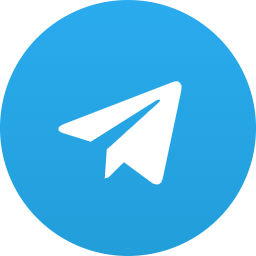
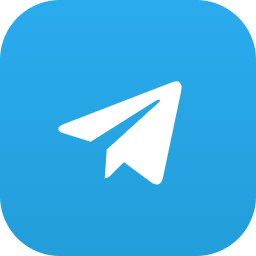
feat(vizitka): Figma dizayni bo'yicha to'liq qayta qurildi
Dizayn: "Business card Mylink" (Figma, 1062x590 px = 90x50 mm @300dpi).
Barcha o'lchamlar dizayndan piksel aniqligida olindi va _CARD_K orqali pt ga
o'giriladi; fon esa oldingidek biznes sahifasining temasidan olinadi — ya'ni
temaga qarab faqat fon almashadi.

- Karta o'lchami 85x55 -> 90x50 mm (dizayn o'lchami)
- Old tomon: markazda halqali dumaloq logo, ostida nom (12.7pt) va tavsif
- Orqa tomon: kichik logo + nom/tavsif chapda, sahifa linki QR ustida
  markazda, chapda 3 ta kontakt chipi, o'ngda oq QR kvadrat (262px, ichida
  modul zonasi 222px)
- Chiplar: dizayndagidek platforma rangli tashqi yorug'lik (_chip_glow),
  radius 23px, ikonka 45px; yozuvlar uchalasiga birdek sig'adigan o'lchamda
- Telegram ikonkasi dizayndagidek dumaloq emas, kvadrat qilib qayta chizildi

diff --git a/backend/businesses/qr.py b/backend/businesses/qr.py
@@ -393,20 +393,6 @@ _TEMPLATE_COLORS = {
 }
 
 
-def _chip_frame(c, x, y, w, h, light):
-    """Kontakt chipi ramkasi — QR paneli bilan bir xil qirra: tekis shaffof
-    to'ldirish va bitta nozik chegara (ichki soya/gradient yo'q). To'ldirish
-    juda kuchsiz — orqa fon bilinib turadi; chegara esa aniq ko'rinadi."""
-    tint = (0, 0, 0) if light else (1, 1, 1)
-    c.setFillColor(colors.Color(*tint, alpha=0.028 if light else 0.045))
-    c.setStrokeColor(colors.Color(*tint, alpha=0.30 if light else 0.38))
-    c.setLineWidth(0.6)
-    c.roundRect(x, y, w, h, 1.4 * mm, stroke=1, fill=1)
-    # Alfa holati keyingi rasm/matnga o'tib ketmasin.
-    c.setFillAlpha(1)
-    c.setStrokeAlpha(1)
-
-
 def _fmt_phone(phone):
     """+998901234567 -> '+998 90 123 45 67' (boshqa formatlar o'z holicha)."""
     p = phone.replace(' ', '')
@@ -439,102 +425,144 @@ def _chip_icon(kind):
     return os.path.join(_ASSETS_DIR, 'chips', f'{kind}.png')
 
 
-def card_pdf_bytes(business, url):
-    """Ikki tomonlama 85x55 mm vizitka; fon rangi biznes sahifasi temasidan.
+# Vizitka geometriyasi — Figma dizaynidan ("Business card Mylink", ikki yuz
+# 1062x590 px = 90x50 mm @300dpi). Barcha qiymatlar dizayn pikselida, _CARD_K
+# orqali pt ga o'giriladi; shu bois joylashuv dizayn bilan bir xil bo'ladi.
+_CARD_W, _CARD_H = 90 * mm, 50 * mm
+_CARD_K = _CARD_W / 1062.0
 
-    Old tomon: tema-gradient fonda chapda dumaloq logo, o'ngida nom va tavsif.
-    Orqa tomon: tepada kichik logo+nom+tavsif (chap) va sahifa linki (o'ng),
-    pastki chapda oq kontakt chiplari (telefon/Telegram/Instagram), o'ngda oq
-    QR paneli. Har bir matn o'lchanadi: nom kichrayadi, qolganlari '...' bilan
-    kesiladi."""
+_CARD_FRONT = {
+    'avatar': (531, 228, 88, 90),     # cx, cy, foto radiusi, halqa radiusi
+    'name': (402, 12.7),              # baseline, maksimal o'lcham
+    'desc': (453, 7.3),               # 1-qator baseline, o'lcham
+    'pad': 100,                       # chap/o'ng hoshiya
+}
+_CARD_BACK = {
+    'avatar': (137, 137, 35, 36.5),
+    'name': (204, 136, 7.7),          # x, baseline, o'lcham
+    'desc': (203, 160, 5.2),
+    'url': (831, 160, 5.2),           # markaz x, baseline, o'lcham
+    'chip': (100, 354, 74, 23),       # x, eni, balandligi, radius
+    'chip_tops': (228, 322, 415),
+    'chip_icon': (115, 45),           # x, o'lcham (kvadrat)
+    'chip_label': (180, 46, 7.35),    # x, chip tepasidan baseline, o'lcham
+    'qr': (700, 228, 262, 222),       # x, y, oq kvadrat, ichidagi modul zonasi
+}
+
+# Chip glow ranglari — dizayndagidek platforma ranglari.
+_CHIP_COLORS = {'phone': '#34c759', 'telegram': '#229ed9', 'instagram': '#d6249f'}
+
+
+def _avatar(c, business, cx, cy, r, ring_w, accent, light):
+    """Dumaloq logo (yo'q bo'lsa — bosh harf) va atrofida nozik halqa."""
+    logo = _logo_reader(business)
+    if logo is not None:
+        c.drawImage(logo, cx - r, cy - r, r * 2, r * 2, mask='auto')
+    else:
+        c.setFillColor(colors.HexColor(accent))
+        c.circle(cx, cy, r, stroke=0, fill=1)
+        c.setFillColor(colors.white)
+        c.setFont('Helvetica-Bold', r * 1.05)
+        c.drawCentredString(cx, cy - r * 0.36, (business.name or 'M').strip()[:1].upper())
+    c.setStrokeColor(colors.HexColor('#3f3f46') if light else colors.HexColor('#f6f6f6'))
+    c.setLineWidth(ring_w)
+    c.circle(cx, cy, r + ring_w / 2, stroke=1, fill=0)
+
+
+def _chip_glow(c, x, y, w, h, r, hex_color, spread, steps=9, peak=0.15):
+    """Chip atrofidagi rangli yorug'lik — tashqariga qarab so'nuvchi konturlar."""
+    red, green, blue = colors.HexColor(hex_color).rgb()
+    for i in range(steps, 0, -1):
+        t = i / steps                       # 1 — eng tashqi halqa
+        d = spread * t
+        c.setStrokeColor(colors.Color(red, green, blue, alpha=peak * (1 - t) ** 1.5))
+        c.setLineWidth(spread / steps * 1.8)
+        c.roundRect(x - d, y - d, w + 2 * d, h + 2 * d, r + d, stroke=1, fill=0)
+    c.setStrokeAlpha(1)
+
+
+def card_pdf_bytes(business, url):
+    """Ikki tomonlama 90x55 mm vizitka — Figma dizayni bo'yicha; fon rangi
+    biznes sahifasining amaldagi temasidan olinadi (faqat fon almashadi).
+
+    Old tomon: markazda dumaloq logo, ostida nom va tavsif.
+    Orqa tomon: tepada kichik logo + nom/tavsif (chapda) va sahifa linki
+    (QR ustida markazda); pastda chapda kontakt chiplari (platforma rangli
+    yorug'lik bilan), o'ngda oq QR kvadrat."""
     c1, c2, accent, light = _card_theme(business)
     ink = colors.HexColor('#1c1813') if light else colors.white
-    ink_soft = (colors.Color(0.11, 0.09, 0.07, alpha=0.7) if light
-                else colors.Color(1, 1, 1, alpha=0.78))
-    # Halqa: logo atrofidagi nozik chiziq (chiplar _chip_frame bilan chiziladi).
-    ring_line = colors.Color(0, 0, 0, alpha=0.30) if light else colors.Color(1, 1, 1, alpha=0.85)
+    ink_soft = (colors.Color(0.11, 0.09, 0.07, alpha=0.72) if light
+                else colors.Color(1, 1, 1, alpha=0.82))
 
     buf = BytesIO()
-    card_w, card_h = 85 * mm, 55 * mm
-    c = canvas.Canvas(buf, pagesize=(card_w, card_h))
-    margin = 8 * mm
-    plain_url = url.replace('https://', '').replace('http://', '')
+    c = canvas.Canvas(buf, pagesize=(_CARD_W, _CARD_H))
+    k = _CARD_K
+
+    def X(px):
+        return px * k
+
+    def Y(px):                     # dizayn (tepadan) -> PDF (pastdan)
+        return _CARD_H - px * k
 
     def bg():
-        c.linearGradient(0, card_h, card_w, 0,
+        c.linearGradient(0, _CARD_H, _CARD_W, 0,
                          (colors.HexColor(c1), colors.HexColor(c2)), extend=True)
 
-    def logo_disc(cx, cy, r):
-        logo = _logo_reader(business)
-        if logo is not None:
-            c.drawImage(logo, cx - r, cy - r, r * 2, r * 2, mask='auto')
-        else:
-            c.setFillColor(colors.HexColor(accent))
-            c.circle(cx, cy, r, stroke=0, fill=1)
-            c.setFillColor(colors.white)
-            c.setFont('Helvetica-Bold', r * 1.1)
-            c.drawCentredString(cx, cy - r * 0.38, (business.name or 'M').strip()[:1].upper())
-        c.setStrokeColor(ring_line)
-        c.setLineWidth(0.9)
-        c.circle(cx, cy, r + 0.4 * mm, stroke=1, fill=0)
-
-    # ---- OLD TOMON ----
-    bg()
-    logo_r = 9 * mm
-    logo_cx, logo_cy = margin + logo_r + 2 * mm, card_h / 2
-    logo_disc(logo_cx, logo_cy, logo_r)
-
-    text_x = logo_cx + logo_r + 5 * mm
-    text_w = card_w - margin - text_x
     name = (business.name or '').strip() or 'MyLink'
-    name_size = _fit_size(name, 'Helvetica-Bold', 16, 10, text_w)
-    name = _truncated(name, 'Helvetica-Bold', name_size, text_w)
+    desc = (business.description or '').strip()
+    plain_url = url.replace('https://', '').replace('http://', '')
+
+    # ------------------------------ OLD TOMON ------------------------------
+    bg()
+    acx, acy, ar, ring = _CARD_FRONT['avatar']
+    _avatar(c, business, X(acx), Y(acy), X(ar), X(ring - ar), accent, light)
+
+    pad = _CARD_FRONT['pad']
+    max_w = X(1062 - 2 * pad)
+    base, max_size = _CARD_FRONT['name']
+    size = _fit_size(name, 'Helvetica-Bold', max_size, 8, max_w)
     c.setFillColor(ink)
-    c.setFont('Helvetica-Bold', name_size)
-    if business.description:
-        c.drawString(text_x, card_h / 2 + 1.2 * mm, name)
+    c.setFont('Helvetica-Bold', size)
+    c.drawCentredString(X(531), Y(base), _truncated(name, 'Helvetica-Bold', size, max_w))
+
+    if desc:
+        base, size = _CARD_FRONT['desc']
+        lines = _wrap_pdf(desc, 'Helvetica', size, max_w, max_lines=2)
         c.setFillColor(ink_soft)
-        c.setFont('Helvetica', 8)
-        c.drawString(text_x, card_h / 2 - 4.8 * mm,
-                     _truncated(business.description.strip(), 'Helvetica', 8, text_w))
-    else:
-        c.drawString(text_x, card_h / 2 - name_size * 0.36, name)
+        c.setFont('Helvetica', size)
+        for i, line in enumerate(lines):
+            c.drawCentredString(X(531), Y(base + i * size * 1.35 / k), line)
     c.showPage()
 
-    # ---- ORQA TOMON ----
+    # ------------------------------ ORQA TOMON -----------------------------
     bg()
+    acx, acy, ar, ring = _CARD_BACK['avatar']
+    _avatar(c, business, X(acx), Y(acy), X(ar), X(ring - ar), accent, light)
 
-    # Tepada: kichik logo + nom + tavsif (chapda), sahifa linki (o'ngda).
-    m_r = 4 * mm
-    logo_disc(margin + m_r, card_h - 8.5 * mm, m_r)
-    url_w = stringWidth(plain_url, 'Helvetica', 7)
-    head_x = margin + 2 * m_r + 3 * mm
-    head_w = card_w - margin - head_x - url_w - 3 * mm
+    qx, qy, qbox, qmod = _CARD_BACK['qr']
+    head_w = X(qx - 30) - X(_CARD_BACK['name'][0])      # QR ustunigacha
+    nx, nbase, nsize = _CARD_BACK['name']
     c.setFillColor(ink)
-    c.setFont('Helvetica-Bold', 8.5)
-    c.drawString(head_x, card_h - 8 * mm,
-                 _truncated(name, 'Helvetica-Bold', 8.5, head_w))
-    if business.description:
+    c.setFont('Helvetica-Bold', nsize)
+    c.drawString(X(nx), Y(nbase), _truncated(name, 'Helvetica-Bold', nsize, head_w))
+    if desc:
+        dx, dbase, dsize = _CARD_BACK['desc']
         c.setFillColor(ink_soft)
-        c.setFont('Helvetica', 5.5)
-        c.drawString(head_x, card_h - 11.2 * mm,
-                     _truncated(business.description.strip(), 'Helvetica', 5.5, head_w))
+        c.setFont('Helvetica', dsize)
+        c.drawString(X(dx), Y(dbase), _truncated(desc, 'Helvetica', dsize, head_w))
+
+    ux, ubase, usize = _CARD_BACK['url']
     c.setFillColor(ink_soft)
-    c.setFont('Helvetica', 7)
-    c.drawRightString(card_w - margin, card_h - 8.5 * mm, plain_url)
+    c.setFont('Helvetica', usize)
+    c.drawCentredString(X(ux), Y(ubase), plain_url)
 
-    # O'ngda oq QR paneli.
-    panel = 30 * mm
-    px_, py_ = card_w - 7 * mm - panel, 5.5 * mm
+    # QR — oq kvadrat, ichida modullar (dizayndagi oq hoshiya saqlanadi).
     c.setFillColor(colors.white)
-    c.setStrokeColor(colors.HexColor('#e5e7eb') if light else colors.Color(1, 1, 1, alpha=0.25))
-    c.setLineWidth(0.6)
-    c.roundRect(px_, py_, panel, panel, 3 * mm, stroke=1, fill=1)
-    qr_size = 26 * mm
-    c.drawImage(_image_reader(_qr_image(url, box_size=6, border=0)),
-                px_ + (panel - qr_size) / 2, py_ + (panel - qr_size) / 2, qr_size, qr_size)
+    c.rect(X(qx), Y(qy + qbox), X(qbox), X(qbox), stroke=0, fill=1)
+    c.drawImage(_image_reader(_qr_image(url, box_size=8, border=0)),
+                X(qx + (qbox - qmod) / 2), Y(qy + (qbox + qmod) / 2), X(qmod), X(qmod))
 
-    # Pastki chapda kontakt chiplari (rasmdagidek oq pill + platforma ikonkasi).
+    # Kontakt chiplari: telefon / Telegram / Instagram.
     contacts = business_contacts(business)
     rows = []
     if contacts['phone']:
@@ -544,21 +572,30 @@ def card_pdf_bytes(business, url):
     if contacts['instagram']:
         rows.append(('instagram', '@' + contacts['instagram']))
 
-    chip_h, chip_gap = 7 * mm, 1.8 * mm
-    chip_zone_r = px_ - 3 * mm
-    chip_max_w = chip_zone_r - margin
-    chip_y = card_h - 8.5 * mm - m_r - 6 * mm - chip_h  # header ostidan boshlab
-    icon = 4.6 * mm
-    for kind, label in rows[:3]:
-        label = _truncated(label, 'Helvetica-Bold', 7.5, chip_max_w - icon - 6 * mm)
-        chip_w = min(chip_max_w, icon + 6 * mm + stringWidth(label, 'Helvetica-Bold', 7.5))
-        _chip_frame(c, margin, chip_y, chip_w, chip_h, light)
-        c.drawImage(_chip_icon(kind), margin + 1.7 * mm, chip_y + (chip_h - icon) / 2,
-                    icon, icon, mask='auto')
+    cx_, cw, ch, crad = _CARD_BACK['chip']
+    icon_x, icon_sz = _CARD_BACK['chip_icon']
+    lab_x, lab_dy, lab_size = _CARD_BACK['chip_label']
+    lab_w = X(cx_ + cw - 20 - lab_x)
+    # Uchala yozuv bir xil o'lchamda bo'lishi uchun eng uzuniga qarab tanlanadi.
+    if rows:
+        lab_size = min(_fit_size(lbl, 'Helvetica', lab_size, 5.8, lab_w) for _, lbl in rows[:3])
+    for (kind, label), top in zip(rows[:3], _CARD_BACK['chip_tops']):
+        x, y, w, h = X(cx_), Y(top + ch), X(cw), X(ch)
+        _chip_glow(c, x, y, w, h, X(crad), _CHIP_COLORS[kind], X(14))
+        c.setFillColor(colors.Color(0, 0, 0, alpha=0.05) if light
+                       else colors.Color(1, 1, 1, alpha=0.045))
+        c.setStrokeColor(colors.Color(0, 0, 0, alpha=0.35) if light
+                         else colors.Color(1, 1, 1, alpha=0.5))
+        c.setLineWidth(0.5)
+        c.roundRect(x, y, w, h, X(crad), stroke=1, fill=1)
+        c.setFillAlpha(1)
+        c.setStrokeAlpha(1)
+        c.drawImage(_chip_icon(kind), X(icon_x), Y(top + (ch + icon_sz) / 2),
+                    X(icon_sz), X(icon_sz), mask='auto')
         c.setFillColor(ink)
-        c.setFont('Helvetica-Bold', 7.5)
-        c.drawString(margin + 1.7 * mm + icon + 2 * mm, chip_y + chip_h / 2 - 1.2 * mm, label)
-        chip_y -= chip_h + chip_gap
+        c.setFont('Helvetica', lab_size)
+        c.drawString(X(lab_x), Y(top + lab_dy),
+                     _truncated(label, 'Helvetica', lab_size, lab_w))
 
     c.showPage()
     c.save()
